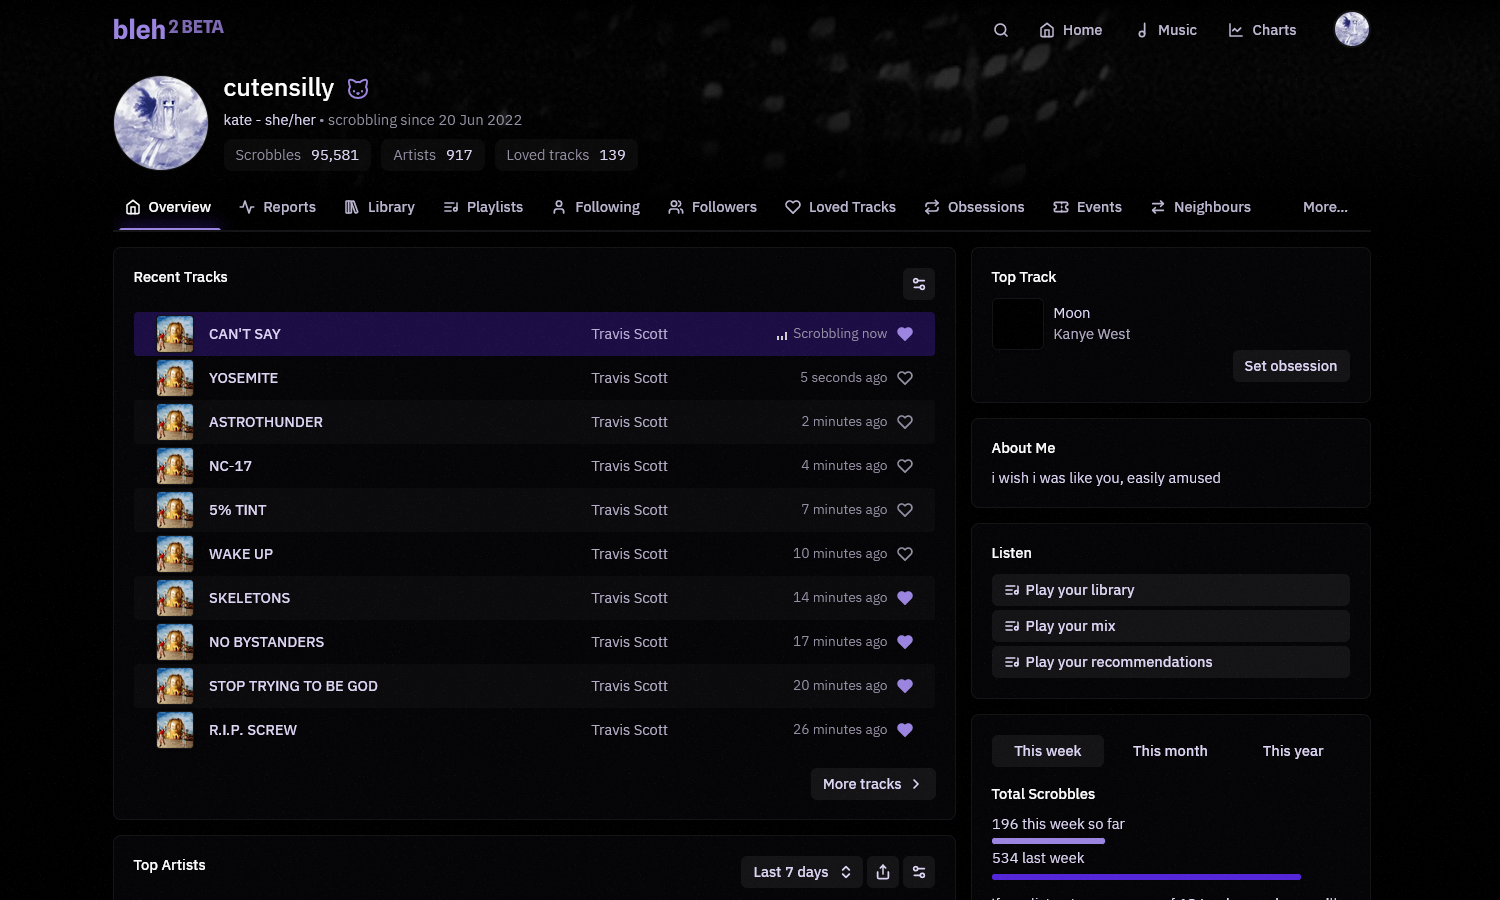
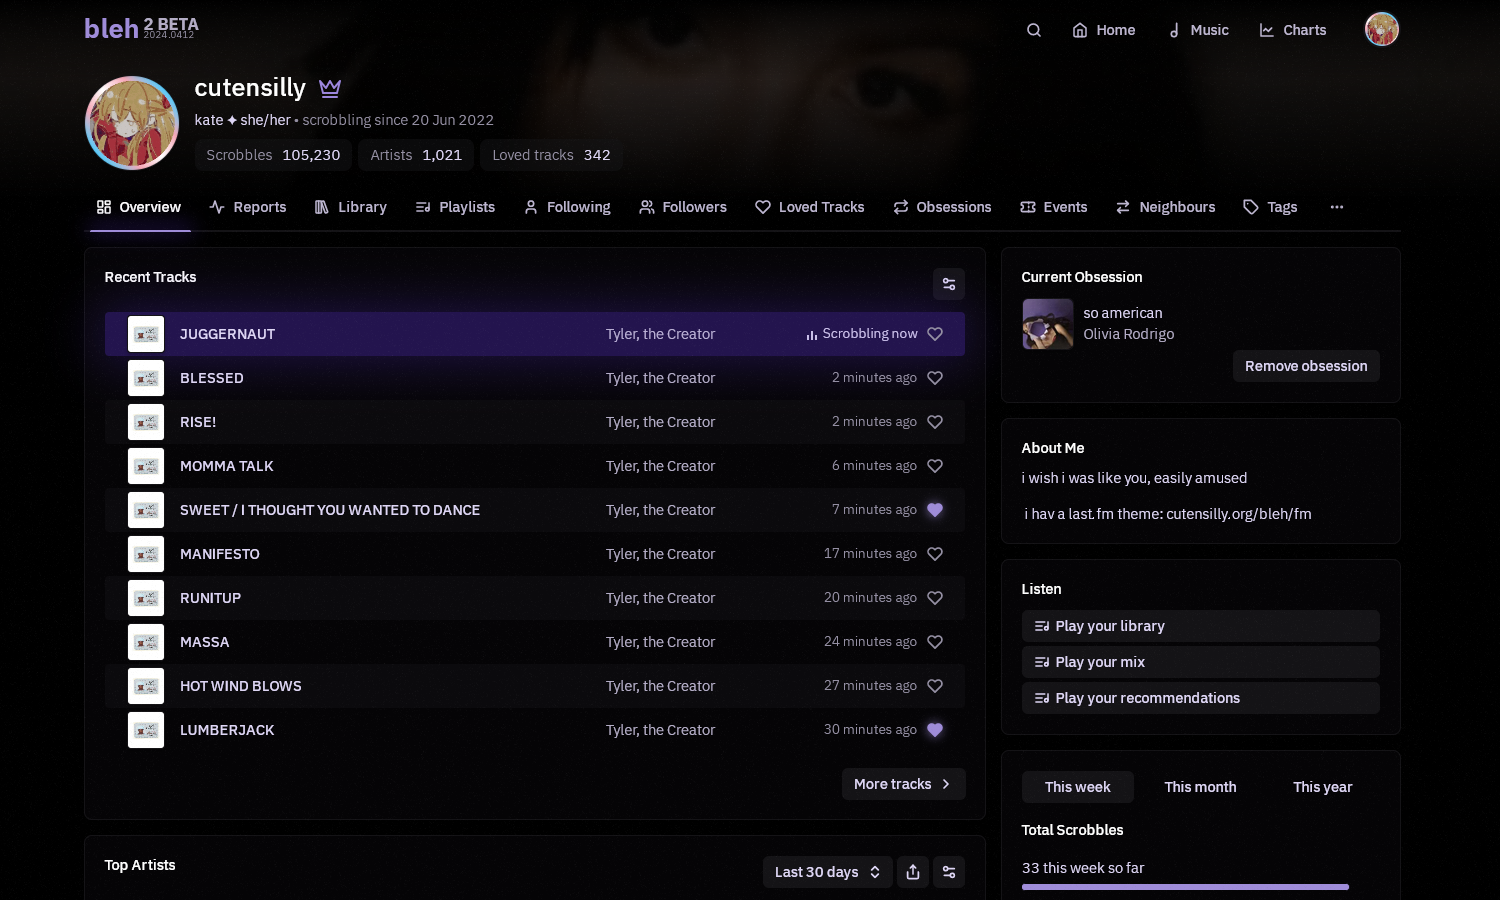
feat: add light theme addon to the site!!

diff --git a/bleh/fm/index.html b/bleh/fm/index.html
@@ -79,7 +79,13 @@
                         <div class="main-image">
                             <img src="/img/bleh2-oled-accent.png">
                         </div>
-                        <figcaption><i class="icon w-16" data-lucide="user"></i>Profile (with oled addon & a customised colour)</figcaption>
+                        <figcaption><i class="icon w-16" data-lucide="user"></i>Profile (with oled theme addon & a customised colour)</figcaption>
+                    </figure>
+                    <figure>
+                        <div class="main-image">
+                            <img src="/img/bleh2-addon-light.png">
+                        </div>
+                        <figcaption><i class="icon w-16" data-lucide="user"></i>Profile (with light theme addon)</figcaption>
                     </figure>
                     <figure>
                         <div class="main-image">
@@ -183,12 +189,12 @@
                 <!--<h3 class="small-head installed-only" id="theme-ver">Latest version!</h3>-->
                 <div class="btn-row">
                     <a role="button" class="btn primary installed2-only" href="/bleh/fm/customise">
-                        <span class="text">Customise your bleh</span>
                         <i class="icon w-16" data-lucide="sparkles"></i>
+                        <span class="text">Customise your bleh</span>
                     </a>
                     <a role="button" class="btn primary installed2-only" id="theme-update" href="https://github.com/katelyynn/bleh/raw/uwu/lastfm-bleh2.user.css" target="_blank">
-                        <span class="text" id="theme-ver">Update</span>
                         <i class="icon w-16" data-lucide="refresh-ccw"></i>
+                        <span class="text" id="theme-ver">Update</span>
                     </a>
                     <a role="button" class="btn primary shine uninstalled2-only" onclick="create_install_window2()" id="install-btn">
                         <span class="text">Click to install</span>
@@ -348,7 +354,18 @@
                     </div>
                     <div class="text">
                         <h5>OLED theme</h5>
-                        <p>Special theme addon for the eyes.</p>
+                        <p>bleh2, but very dark.</p>
+                    </div>
+                </div>
+                <div class="item install2" id="install-light" onclick="create_theme_window('bleh2-light')">
+                    <div class="image">
+                        <div class="kate-icon">
+                            <i class="icon w-24" data-lucide="sun"></i>
+                        </div>
+                    </div>
+                    <div class="text">
+                        <h5>Light theme</h5>
+                        <p>bleh2, but very light.</p>
                     </div>
                 </div>
                 <div class="item install2" id="install-accent" onclick="create_theme_window('bleh2-accent')">

diff --git a/js/addons2.js b/js/addons2.js
@@ -15,12 +15,14 @@ function install_theme() {
 let style_addons = [
     'main',
     'bleh2-oled',
-    'bleh2-accent'
+    'bleh2-accent',
+    'bleh2-light'
 ]
 let latest_versions = {
     'main': 2024.0412,
     'bleh2-oled': 2024.0407,
     'bleh2-accent': 2024.0320,
+    'bleh2-light': 2024.0412
 }
 let any_updates_available = false;
 let sent_update_notif = false;
@@ -66,7 +68,7 @@ function query_versions() {
         document.getElementById('theme-update').classList.remove('ultra-shine');
         document.getElementById('theme-update').style.removeProperty('--base-hue');
     } else if (need_updates.main != -2) {
-        document.getElementById('theme-ver').textContent = 'Update';
+        document.getElementById('theme-ver').textContent = `Update to ${latest_versions.main}`;
         document.getElementById('theme-update').style.setProperty('--base-hue','130');
         if (!sent_update_notif) create_chip('You have a theme update available!','success')
         sent_update_notif = true;

diff --git a/js/windows.js b/js/windows.js
@@ -23,7 +23,7 @@ let theme_windows = {
     'bleh2-oled': {
         'icon': 'moon-star',
         'name': 'OLED theme',
-        'description': 'Special theme addon for the eyes.',
+        'description': 'bleh2, but very dark.',
         'image': '/img/bleh2-addon-oled.png'
     },
     'bleh2-accent': {
@@ -31,6 +31,13 @@ let theme_windows = {
         'name': 'Album covers',
         'description': 'Match the page colour to the album cover!',
         'image': '/img/bleh2-addon-accent.png',
+        'status': 'wip'
+    },
+    'bleh2-light': {
+        'icon': 'sun',
+        'name': 'Light theme',
+        'description': 'bleh2, but very light.',
+        'image': '/img/bleh2-addon-light.png',
         'status': 'wip'
     }
 }
